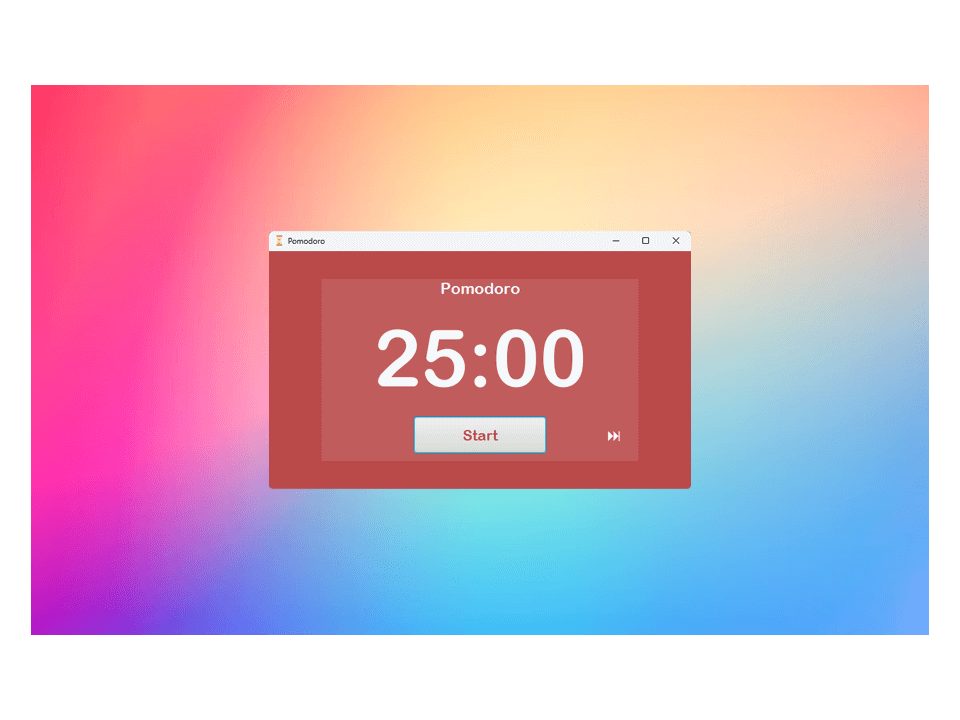
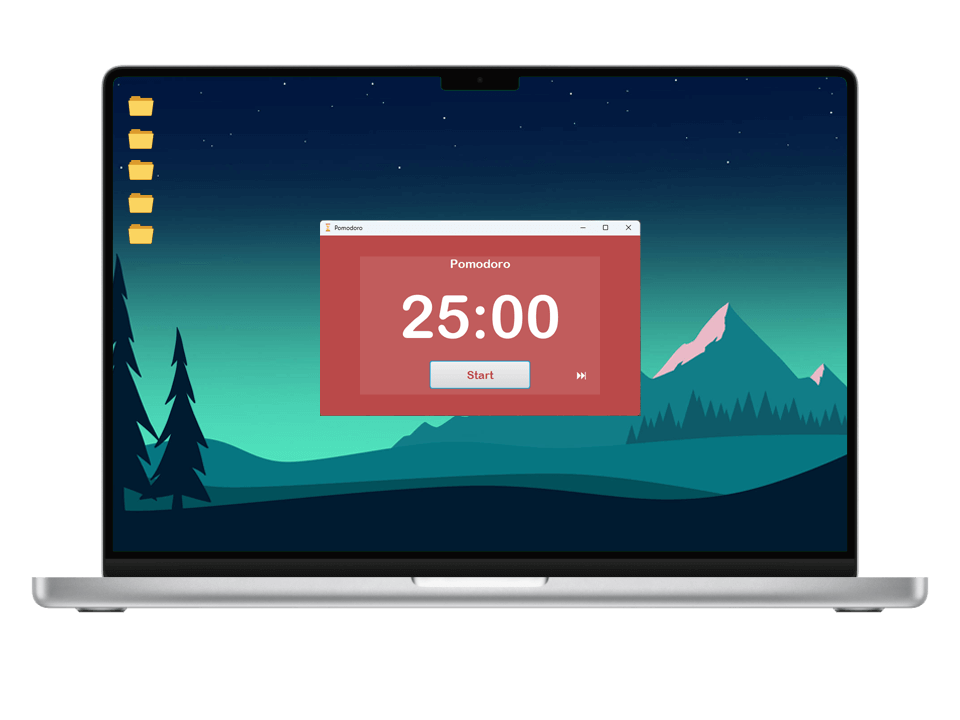
fix: replace javafx-pomodoro image and adds a development project

diff --git a/index.html b/index.html
@@ -171,6 +171,18 @@
             <section class="row" id="projetos">
                 <h2 class="title">PROJETOS</h2>
                 <div class="col s12">
+                    <div class="project__container development">
+                        <div class="project__image">
+                            <img loading="lazy" src="images/api.webp" alt="Chat em tempo real" />
+                        </div>
+                        <div class="project__name">
+                            <h4>Chat em tempo real</h4>
+                        </div>
+                        <div class="project__badges">
+                            <div aria-label="tag de habilidade" class="badge">Java</div>
+                            <div aria-label="tag de habilidade" class="badge">React</div>
+                        </div>
+                    </div>
                     <div class="project__container">
                         <div class="project__image">
                             <img loading="lazy" src="images/javafx-pomodoro.webp" alt="JavaFX desktop app" />
@@ -207,6 +219,7 @@
                             </a>
                         </div>
                     </div>
+                    <div class="projects__expandable collapsed">
                     <div class="project__container">
                         <div class="project__image">
                             <img loading="lazy" src="images/api.webp" alt="API" />
@@ -225,7 +238,6 @@
                             </a>
                         </div>
                     </div>
-                    <div class="projects__expandable collapsed">
                         <div class="project__container">
                             <div class="project__image">
                                 <img loading="lazy" src="images/api.webp" alt="API" />
@@ -316,9 +328,9 @@
                         </a>
                     </div>
                     <div class="contact">
-                        <a href="https://github.com/rockyracum" target="_blank" rel="noopener noreferrer">
+                        <a href="https://github.com/leobaraujo" target="_blank" rel="noopener noreferrer">
                             <i class="devicon-github-original colored"></i>
-                            <span>@rockyracum</span>
+                            <span>@leobaraujo</span>
                         </a>
                     </div>
                 </div>
